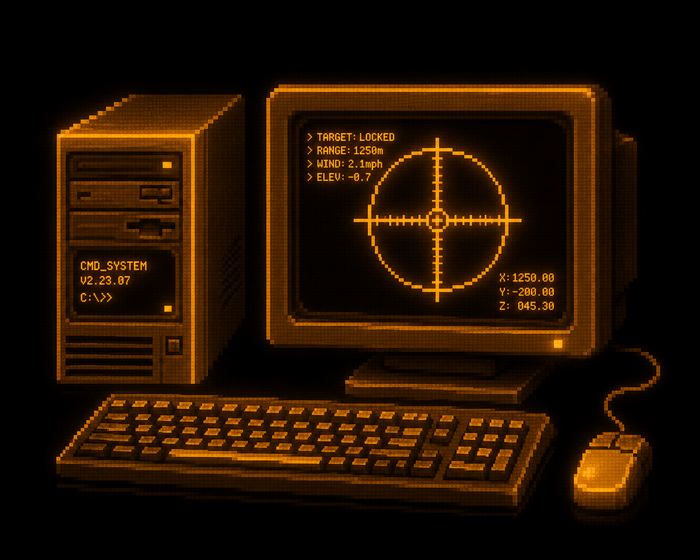
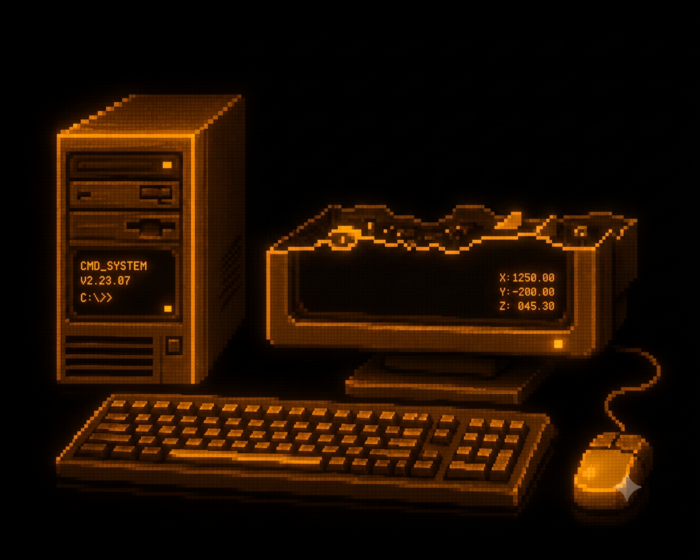
Swap header art to smashed-monitor headless-server version; add trivia-style panning scan sweep

diff --git a/index.html b/index.html
@@ -510,6 +510,23 @@
     pointer-events:none;
     border-radius:inherit;
   }
+  .crt-sweep::before{
+    content:"";
+    position:absolute;left:-10%;right:-10%;height:22px;top:-28px;
+    pointer-events:none;z-index:1;
+    background:linear-gradient(180deg, transparent,
+      rgba(255,165,0,0.10) 30%,
+      rgba(255,180,80,0.24) 50%,
+      rgba(255,165,0,0.10) 70%, transparent);
+  }
+  @media (prefers-reduced-motion:no-preference){
+    .crt-sweep::before{animation:crtSweep 13s linear infinite;}
+  }
+  @keyframes crtSweep{
+    0%{top:-28px;transform:skewY(-.8deg);}
+    50%{transform:skewY(.8deg);}
+    100%{top:110%;transform:skewY(-.8deg);}
+  }
 
   .download-btn{
     display:flex;align-items:center;gap:14px;
@@ -578,8 +595,8 @@
           <p class="tagline mode-normal">A small dedicated machine you build sitting right in front of it — Zorin OS, VS Code, and Claude Code driving the actual infra work — then graduate to fully headless once everything's proven working. Written for someone doing this for the first time — no prior server experience assumed.</p>
           <p class="tagline mode-simple">Picture opening a tiny takeout kitchen. You set it up standing right in the kitchen, with an assistant chef doing the actual cooking while you watch and approve — and only hand the keys to remote management once you've confirmed deliveries actually work. No dining room, no front counter, and eventually no need to ever stand in the kitchen again.</p>
         </div>
-        <div class="header-art crt-frame">
-          <img src="/cmd-system.png" alt="Retro amber CRT terminal and tower PC, pixel art">
+        <div class="header-art crt-frame crt-sweep">
+          <img src="/cmd-system.png" alt="Retro amber pixel-art tower PC with a smashed-off monitor head, symbolizing a headless server">
         </div>
       </div>
 